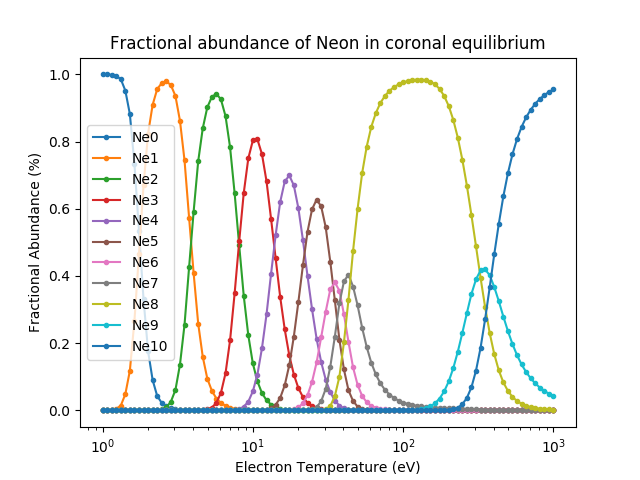
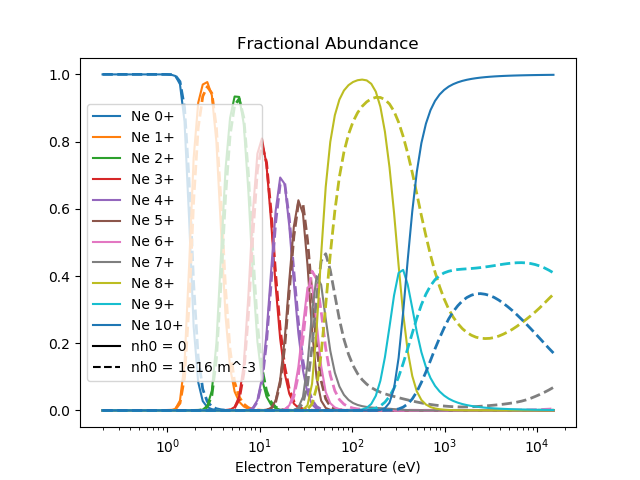
Make numerous documentation fixes
* Fix version numbering of Cherab in HTML documentation
* Update fractional abundance and radiated power demos.
* Remove obsolete elements of function documentation.
* Add a note about stale code in the code examples gallery.

diff --git a/docs/source/conf.py b/docs/source/conf.py
@@ -55,16 +55,16 @@ master_doc = 'index'
 
 # General information about the project.
 project = 'Cherab'
-copyright = '2019, Cherab Team'
+copyright = '2021, Cherab Team'
 
 # The version info for the project you're documenting, acts as replacement for
 # |version| and |release|, also used in various other places throughout the
 # built documents.
 #
 # The short X.Y version.
-version = '1.2'
+version = '1.3'
 # The full version, including alpha/beta/rc tags.
-release = '1.2.0'
+release = '1.3.0'
 
 # The language for content autogenerated by Sphinx. Refer to documentation
 # for a list of supported languages.

diff --git a/docs/source/demonstrations/atomic_data/radiated_powers.rst b/docs/source/demonstrations/atomic_data/radiated_powers.rst
@@ -9,65 +9,54 @@ subscription package.
 
 .. code-block:: pycon
 
+   >>> import numpy as np
    >>> import matplotlib.pyplot as plt
-   >>> plt.ion()
-   >>>
+
    >>> from cherab.core.atomic import neon
+   >>> from cherab.core.math import sample2d_grid
    >>> from cherab.adas import ADAS
-   >>>
+
+
+   >>> print("Testing total radiation for Neon.")
+
    >>> atomic_data = ADAS()
-   >>>
+
+   >>> electron_density = 1.e19
+   >>> electron_temperature = np.logspace(0, 4, 41)
+
+   >>> # Obtaining total radiation using ADAS405 code (equilibrium balance)
+   >>> total_rad = atomic_data.total_radiated_power(neon)
+   >>> total_power = sample2d_grid(total_rad, electron_density, electron_temperature).squeeze()
+
+   >>> # Obtaining fractional abundance using ADAS405 code
+   >>> fractional_abundance = np.zeros((neon.atomic_number + 1, electron_temperature.size))
+   >>> for charge, abundance in enumerate(fractional_abundance):
+   >>>     fraction = atomic_data.fractional_abundance(neon, charge)
+   >>>     abundance[:] = sample2d_grid(fraction, electron_density, electron_temperature).squeeze()
+
+   >>> # Obtaining line and continuum radiation
+   >>> line_power = np.zeros((neon.atomic_number, electron_temperature.size))
+   >>> continuum_power = np.zeros((neon.atomic_number, electron_temperature.size))
+   >>> for charge in range(neon.atomic_number):
+   >>>     line_rad = atomic_data.line_radiated_power_rate(neon, charge)
+   >>>     continuum_rad = atomic_data.continuum_radiated_power_rate(neon, charge + 1)
+   >>>     line_power[charge] = sample2d_grid(line_rad, electron_density, electron_temperature).squeeze() * fractional_abundance[charge]
+   >>>     continuum_power[charge] = sample2d_grid(continuum_rad, electron_density, electron_temperature).squeeze() * fractional_abundance[charge + 1]
+
    >>> plt.figure()
-   >>>
-   >>> ne_total_rad = atomic_data.radiated_power_rate(neon, 'total')
-   >>> ne_total_rad.plot_temperature()
-   >>>
-   >>> ne_line_rad = atomic_data.radiated_power_rate(neon, 'line')
-   >>> ne_line_rad.plot_temperature()
-   >>>
-   >>> ne_continuum_rad = atomic_data.radiated_power_rate(neon, 'continuum')
-   >>> ne_continuum_rad.plot_temperature()
-   >>>
+   >>> plt.plot(electron_temperature, total_power, '-k', label='Total radiation')
+   >>> plt.plot(electron_temperature, continuum_power.sum(0), ls=':', color='k', label='Recombination + Bremsstr.')
+   >>> plt.plot(electron_temperature, line_power.sum(0), ls=':', color='0.7', label='Total line radiation')
+   >>> for charge in range(line_power.shape[0]):
+   >>>     plt.plot(electron_temperature, line_power[charge], ls='--', label='Ne(+{}) line radiation'.format(charge))
+   >>> plt.xscale('log')
+   >>> plt.yscale('log')
+   >>> plt.ylim(1.e-39, 1.e-31)
    >>> plt.xlabel("Electron Temperature (eV)")
-   >>> plt.ylabel("Total emission (W/m^3)")
+   >>> plt.ylabel("Power function (W m^3)")
    >>> plt.title("Neon radiation")
-   >>> plt.legend(loc=3)
-   >>>
-   >>>
-   >>> plt.figure()
-   >>>
-   >>> ne0_line_rad = atomic_data.stage_resolved_line_radiation_rate(neon, 0)
-   >>> ne0_line_rad.plot_temperature()
-   >>> ne1_line_rad = atomic_data.stage_resolved_line_radiation_rate(neon, 1)
-   >>> ne1_line_rad.plot_temperature()
-   >>> ne2_line_rad = atomic_data.stage_resolved_line_radiation_rate(neon, 2)
-   >>> ne2_line_rad.plot_temperature()
-   >>> ne3_line_rad = atomic_data.stage_resolved_line_radiation_rate(neon, 3)
-   >>> ne3_line_rad.plot_temperature()
-   >>> ne4_line_rad = atomic_data.stage_resolved_line_radiation_rate(neon, 4)
-   >>> ne4_line_rad.plot_temperature()
-   >>> ne5_line_rad = atomic_data.stage_resolved_line_radiation_rate(neon, 5)
-   >>> ne5_line_rad.plot_temperature()
-   >>> ne6_line_rad = atomic_data.stage_resolved_line_radiation_rate(neon, 6)
-   >>> ne6_line_rad.plot_temperature()
-   >>> ne7_line_rad = atomic_data.stage_resolved_line_radiation_rate(neon, 7)
-   >>> ne7_line_rad.plot_temperature()
-   >>> ne8_line_rad = atomic_data.stage_resolved_line_radiation_rate(neon, 8)
-   >>> ne8_line_rad.plot_temperature()
-   >>> ne9_line_rad = atomic_data.stage_resolved_line_radiation_rate(neon, 9)
-   >>> ne9_line_rad.plot_temperature()
-   >>> ne10_line_rad = atomic_data.stage_resolved_line_radiation_rate(neon, 10)
-   >>> ne10_line_rad.plot_temperature()
-   >>>
-   >>> plt.xlabel("Electron Temperature (eV)")
-   >>> plt.ylabel("Total Line Emission (W/m^3)")
-   >>> plt.title("Neon - Stage Resolved Line Radiation")
-   >>> plt.legend(loc=3)
-
-
-.. figure:: total_radiation.png
-   :align: center
-   :width: 450px
+   >>> plt.legend(ncol=2, fontsize=9)
+   >>> plt.show()
 
 .. figure:: stage_resolved_radiation.png
    :align: center

diff --git a/docs/source/demonstrations/atomic_data/fractional_abundance.rst b/docs/source/demonstrations/atomic_data/fractional_abundance.rst
@@ -7,44 +7,8 @@ Fractional Abundances
 Some example code for requesting fractional abundances and plotting them.
 
 
-.. code-block:: pycon
+.. literalinclude:: ../../../../demos/openadas/frac_abundance.py
 
-   >>> import matplotlib.pyplot as plt
-   >>> plt.ion()
-   >>>
-   >>> from cherab.core.atomic import neon
-   >>> from cherab.adas import ADAS
-   >>>
-   >>> atomic_data = ADAS()
-   >>>
-   >>> plt.figure()
-   >>> ne0_frac = atomic_data.fractional_abundance(neon, 0)
-   >>> ne0_frac.plot_temperature()
-   >>> ne1_frac = atomic_data.fractional_abundance(neon, 1)
-   >>> ne1_frac.plot_temperature()
-   >>> ne2_frac = atomic_data.fractional_abundance(neon, 2)
-   >>> ne2_frac.plot_temperature()
-   >>> ne3_frac = atomic_data.fractional_abundance(neon, 3)
-   >>> ne3_frac.plot_temperature()
-   >>> ne4_frac = atomic_data.fractional_abundance(neon, 4)
-   >>> ne4_frac.plot_temperature()
-   >>> ne5_frac = atomic_data.fractional_abundance(neon, 5)
-   >>> ne5_frac.plot_temperature()
-   >>> ne6_frac = atomic_data.fractional_abundance(neon, 6)
-   >>> ne6_frac.plot_temperature()
-   >>> ne7_frac = atomic_data.fractional_abundance(neon, 7)
-   >>> ne7_frac.plot_temperature()
-   >>> ne8_frac = atomic_data.fractional_abundance(neon, 8)
-   >>> ne8_frac.plot_temperature()
-   >>> ne9_frac = atomic_data.fractional_abundance(neon, 9)
-   >>> ne9_frac.plot_temperature()
-   >>> ne10_frac = atomic_data.fractional_abundance(neon, 10)
-   >>> ne10_frac.plot_temperature()
-   >>>
-   >>> plt.legend()
-   >>> plt.title("Fractional abundance of Neon in coronal equilibrium")
-   >>> plt.xlabel("Electron Temperature (eV)")
-   >>> plt.ylabel("Fractional Abundance (%)")
 
 .. figure:: fractional_abundance.png
    :align: center

diff --git a/docs/source/math/function.rst b/docs/source/math/function.rst
@@ -5,18 +5,16 @@ Functions
 The Cherab function framework is built on the core Raysect 1D, 2D and 3D
 `function framework <https://raysect.github.io/documentation/api_reference/core/functions.html>`_.
 For more details on the base functionality refer to the Raysect
-documentation and the Cherab function tutorials. The only new classes of functions
-added by Cherab are 2D and 3D Vector functions.
+documentation and the Cherab function tutorials.
+
+Cherab previously provided vector functions which were not present in Raysect.
+New codes should prefer the Raysect vector functions, but the old aliases are preserved for backwards compatibility.
 
 2D Vector Functions
 -------------------
 
 .. autoclass:: cherab.core.math.function.VectorFunction2D
    :members:
-
-.. autoclass:: cherab.core.math.function.vectorfunction2d.PythonVectorFunction2D
-   :members:
-   :show-inheritance:
 
 .. autoclass:: cherab.core.math.function.ScalarToVectorFunction2D
    :members:
@@ -28,10 +26,6 @@ added by Cherab are 2D and 3D Vector functions.
 
 .. autoclass:: cherab.core.math.function.VectorFunction3D
    :members:
-
-.. autoclass:: cherab.core.math.function.vectorfunction3d.PythonVectorFunction3D
-   :members:
-   :show-inheritance:
 
 .. autoclass:: cherab.core.math.function.ScalarToVectorFunction3D
    :members:

diff --git a/docs/source/math/math.rst b/docs/source/math/math.rst
@@ -6,14 +6,15 @@ Function Framework
 One of Cherab's most powerful features is the way it is designed to support mathematical
 functions. Most of the physics interfaces in Cherab are specified in terms of math functions
 of a specified dimension. I.e. density is a 3D function f(x, y, z), while :math:`\psi_n(r,z)`
-is a 2D function in the r-z plane. The section of the documentation describes the various
-utilities that are provided for slicing, dicing and projecting these functions.
+is a 2D function in the r-z plane. Cherab leverages Raysect's function framework which provides
+arithmetic, blending, interpolation and wrapping capabilities.
+
+This section of the documentation describes the various additional
+utilities that Cherab provides for slicing, dicing and projecting these functions.
 
 .. toctree::
-   blend
    caching
    clamp
-   constant
    function
    interpolators
    mappers

diff --git a/docs/source/math/interpolators.rst b/docs/source/math/interpolators.rst
@@ -2,6 +2,11 @@
 Interpolators
 -------------
 
+Historically Cherab provided 1D, 2D and 3D interpolators.
+New codes are encouraged to use Raysect's `interpolators <https://www.raysect.org/api_reference/core/functions.html#interpolators>`_ instead.
+For backwards compatibility the Cherab interpolators are retained for now.
+
+
 .. autoclass:: cherab.core.math.interpolators.interpolators1d.Interpolate1DLinear
    :members:
 

diff --git a/docs/source/demonstrations/demonstrations.rst b/docs/source/demonstrations/demonstrations.rst
@@ -249,6 +249,11 @@ Geometry Matrices
 Code examples gallery
 =====================
 
+.. note::
+   These code examples are included for historical reasons.
+   They may require specific (sometimes older) versions of Cherab's submodules to work.
+   Many also require access to specific machine data.
+
 .. list-table::
    :widths: 28 50 22
    :header-rows: 1
